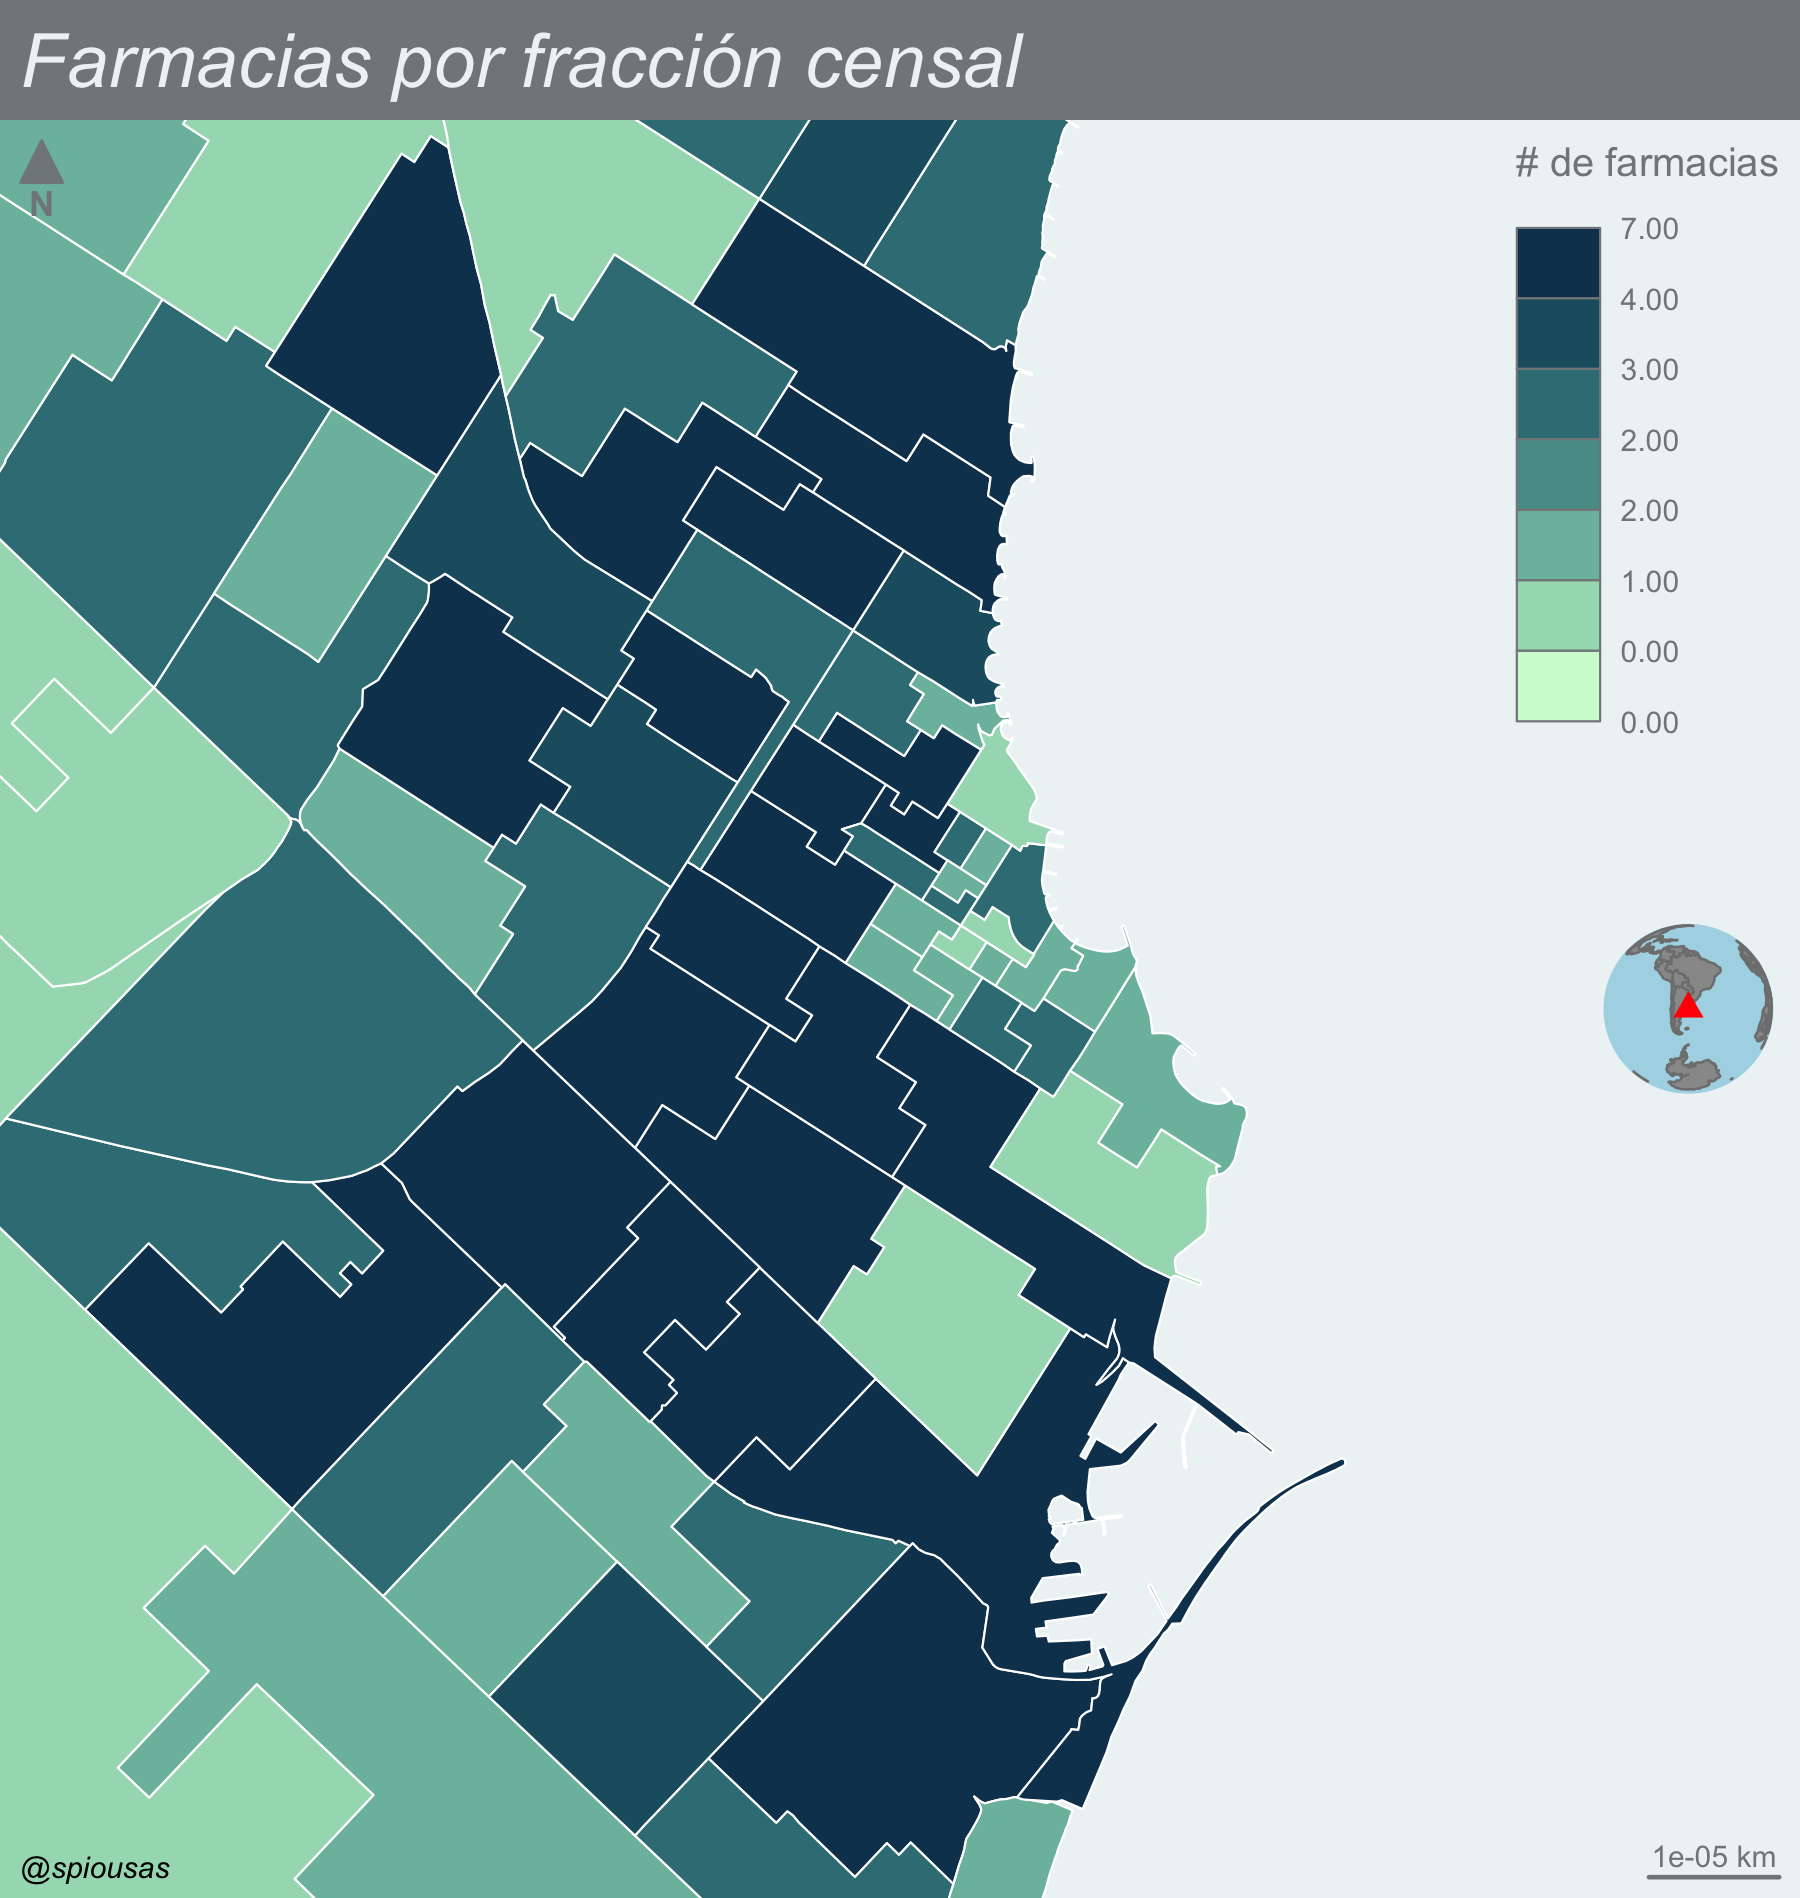
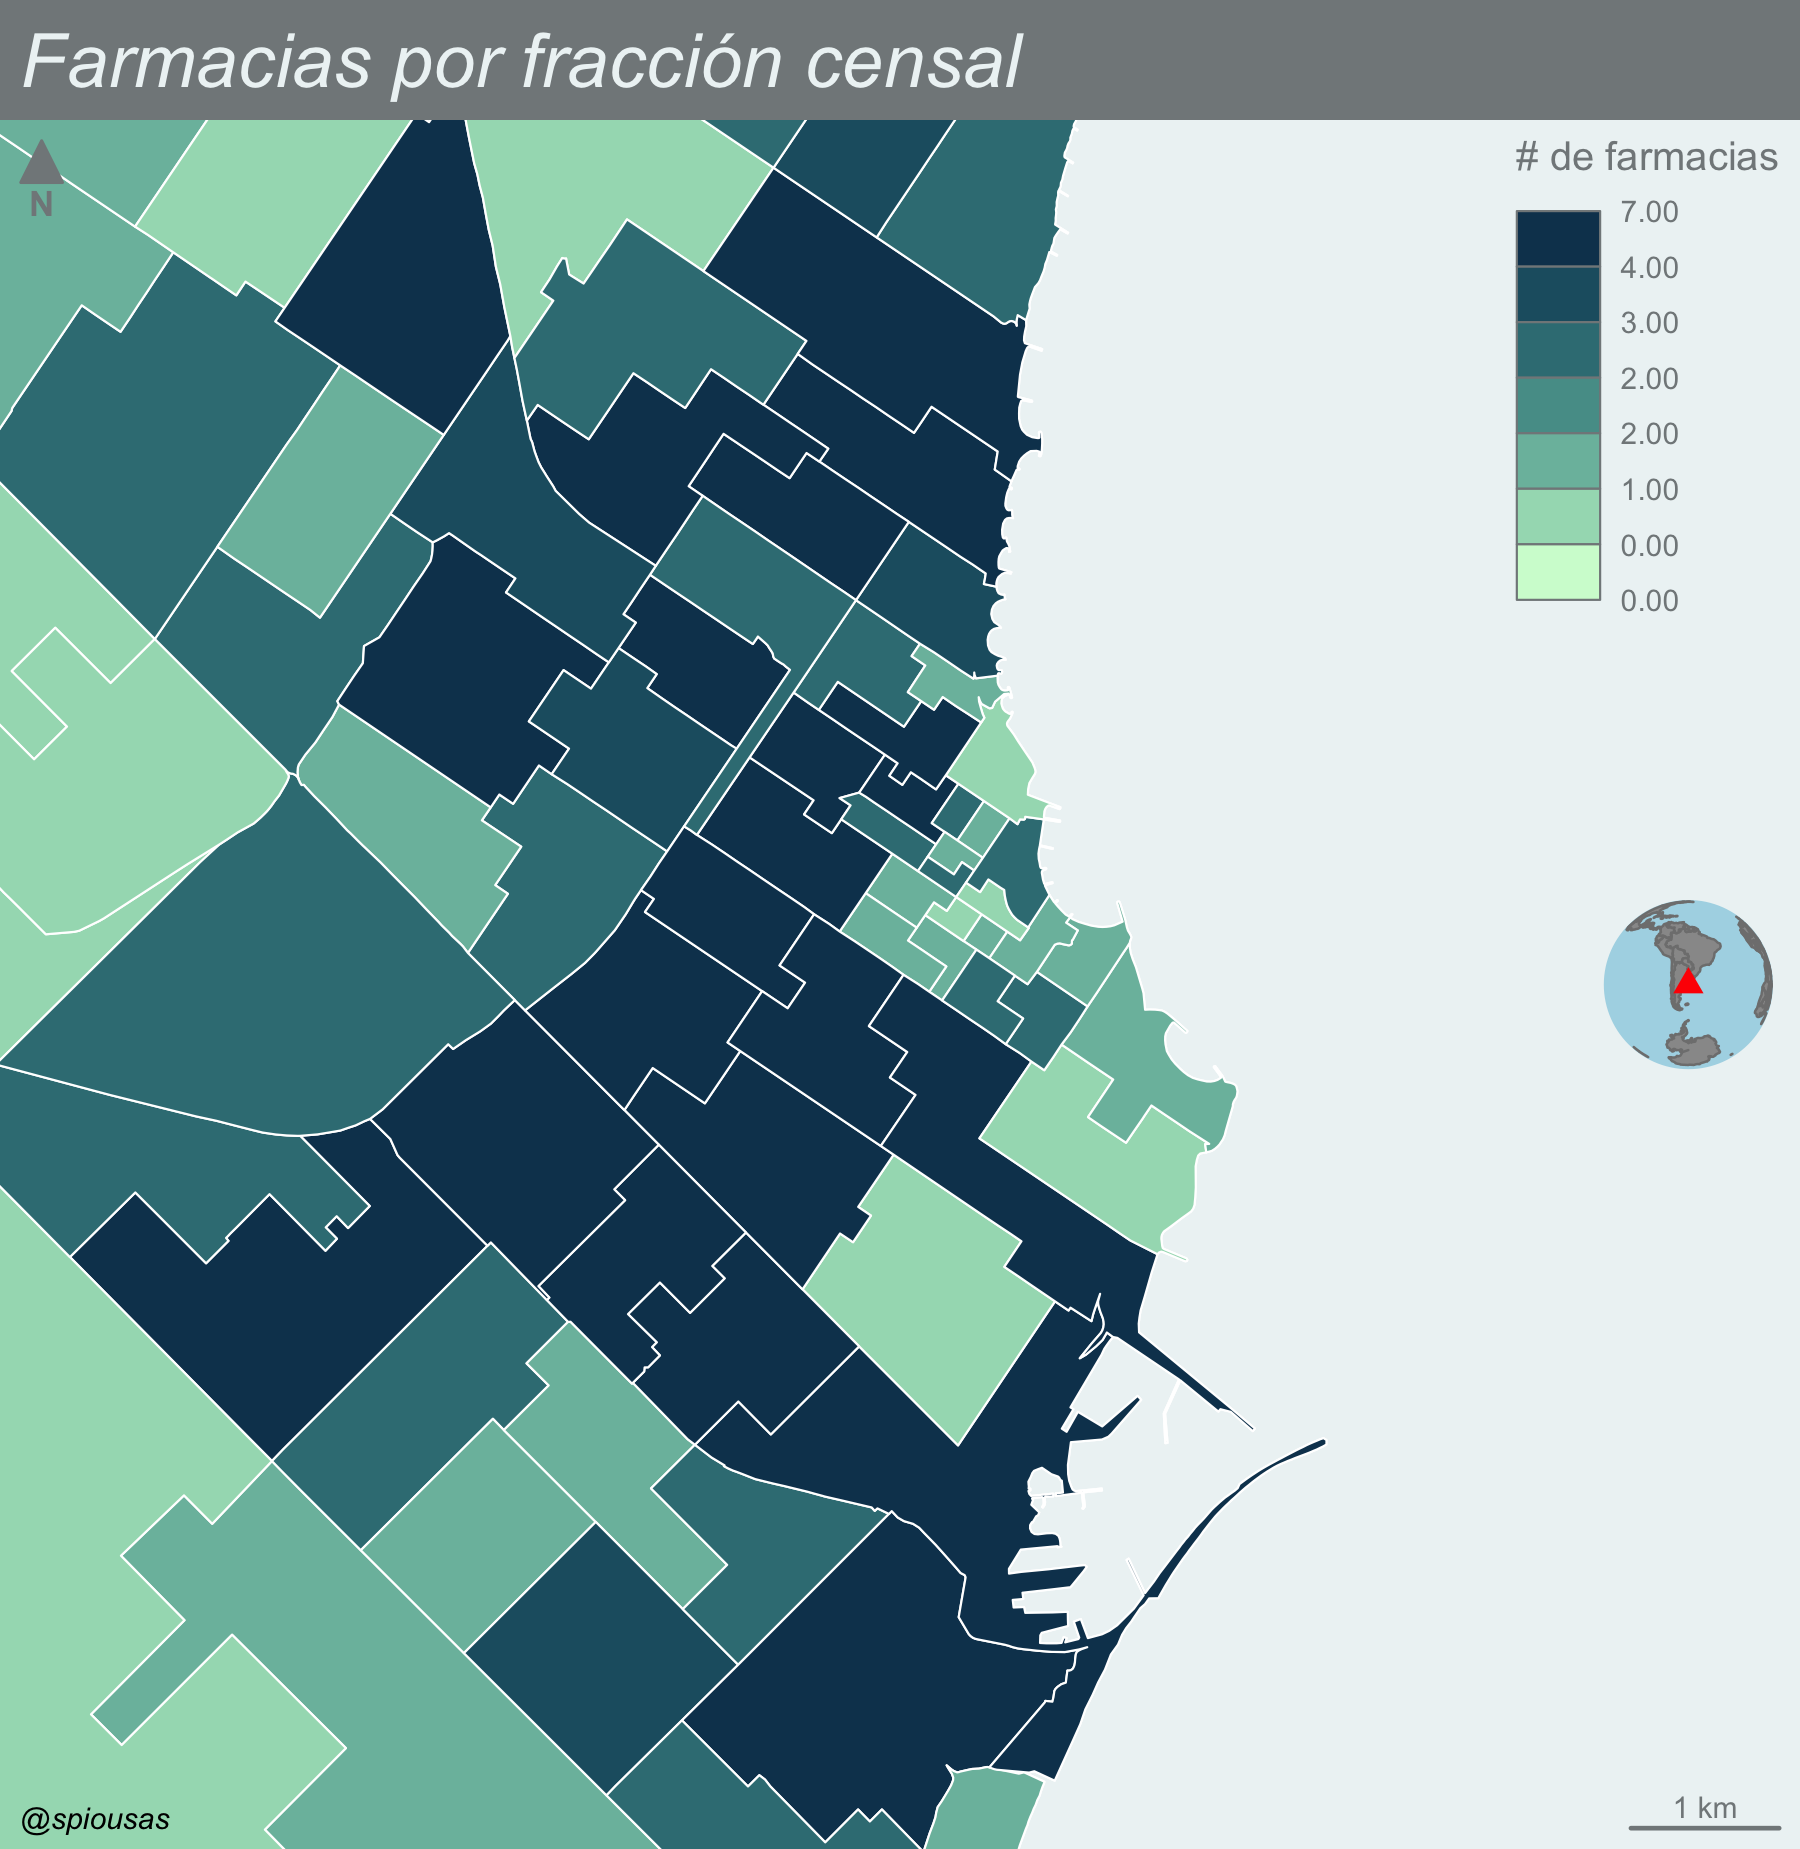
Dia 14 densidad

diff --git a/README.md b/README.md
@@ -121,3 +121,13 @@ here!](https://github.com/spiousas/30DayMapChallenge_2021/blob/main/Day14/Farmac
 
 [Full
 size](https://github.com/spiousas/30DayMapChallenge_2021/blob/main/Day14/Farmacias.png)
+
+#### Extra
+
+En ugar de la cantidad de farmacias hago un choropleth con la densidad
+(farmacias por km. cuadrado).
+
+<img src="./Day14/Farmacias_densidad.png" width="60%" />
+
+[Full
+size](https://github.com/spiousas/30DayMapChallenge_2021/blob/main/Day14/Farmacias_densidad.png)
